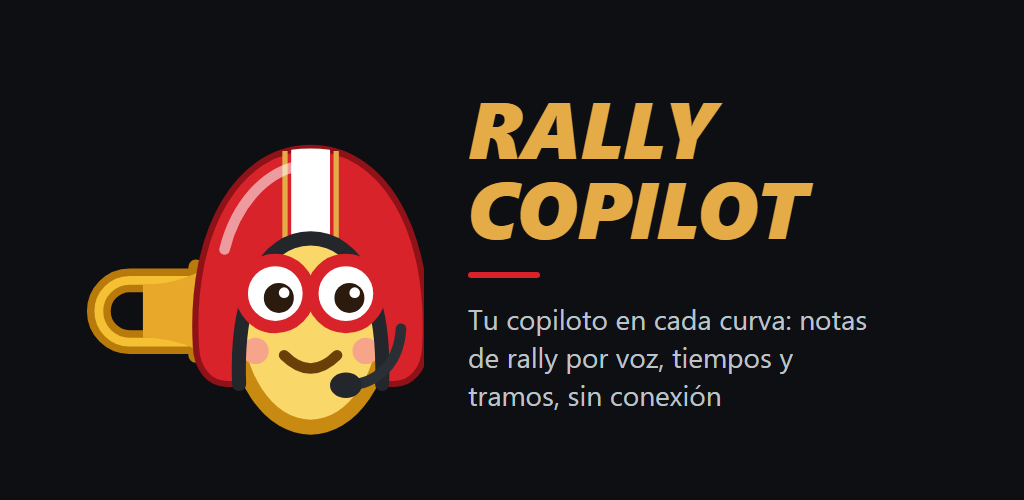
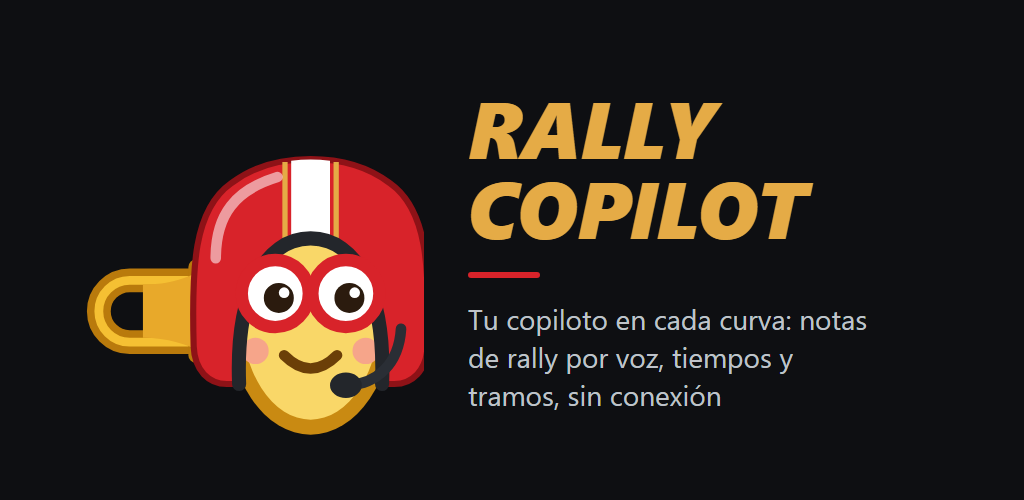
feat(marca): casco más cuadrado (cúpula más baja y ancha) y conversor SVG a VectorDrawable en scripts/svg-a-vector.py

Changed region(s): [[0.1875, 0.27, 0.375, 0.75], [0.375, 0.36, 0.4375, 0.57]]

diff --git a/scripts/svg-a-vector.py b/scripts/svg-a-vector.py
@@ -1,0 +1,83 @@
+"""Convierte la mascota SVG en los VectorDrawable de Android sin dependencias.
+
+Uso:
+  python -I scripts/svg-a-vector.py mascota   # docs/assets/mascota-rally.svg -> res/drawable/mascota_rally.xml
+  python -I scripts/svg-a-vector.py launcher  # misma fuente -> res/drawable/ic_launcher_foreground.xml (zona segura)
+
+Solo entiende lo que usa la mascota: <path> con d, fill, stroke, stroke-width, stroke-linecap/linejoin round y
+stroke-opacity. ic_launcher_monochrome.xml e ic_stat_rally.xml se mantienen a mano (siluetas simplificadas).
+"""
+
+import pathlib
+import re
+import sys
+
+RAIZ = pathlib.Path(__file__).resolve().parent.parent
+FUENTE = RAIZ / "docs" / "assets" / "mascota-rally.svg"
+DRAWABLE = RAIZ / "app" / "src" / "main" / "res" / "drawable"
+
+CABECERA_VECTOR = """<vector xmlns:android="http://schemas.android.com/apk/res/android"
+    android:width="108dp"
+    android:height="108dp"
+    android:viewportWidth="108"
+    android:viewportHeight="108">
+"""
+
+
+def paths_android(svg: str) -> list[str]:
+    salida = []
+    for crudo in re.findall(r"<path ([^>]*)/>", svg):
+        a = dict(re.findall(r'([\w-]+)="([^"]*)"', crudo))
+        attrs = [f'android:pathData="{a["d"]}"']
+        if a.get("fill", "") not in ("", "none"):
+            attrs.append(f'android:fillColor="{a["fill"]}"')
+        if "stroke" in a:
+            attrs.append(f'android:strokeColor="{a["stroke"]}"')
+            attrs.append(f'android:strokeWidth="{a["stroke-width"]}"')
+            if a.get("stroke-linecap") == "round":
+                attrs.append('android:strokeLineCap="round"')
+            if a.get("stroke-linejoin") == "round":
+                attrs.append('android:strokeLineJoin="round"')
+            if "stroke-opacity" in a:
+                attrs.append(f'android:strokeAlpha="{a["stroke-opacity"]}"')
+        salida.append("<path " + " ".join(attrs) + " />")
+    return salida
+
+
+def main() -> None:
+    modo = sys.argv[1] if len(sys.argv) > 1 else ""
+    paths = paths_android(FUENTE.read_text(encoding="utf-8"))
+    if modo == "mascota":
+        destino = DRAWABLE / "mascota_rally.xml"
+        texto = (
+            '<?xml version="1.0" encoding="utf-8"?>\n'
+            "<!-- Trombito con casco de rally, sin fondo, para la app. Generado por scripts/svg-a-vector.py desde\n"
+            "     docs/assets/mascota-rally.svg (viewBox 108). No editar a mano. -->\n"
+            + CABECERA_VECTOR
+            + "".join(f"    {p}\n" for p in paths)
+            + "</vector>\n"
+        )
+    elif modo == "launcher":
+        destino = DRAWABLE / "ic_launcher_foreground.xml"
+        texto = (
+            '<?xml version="1.0" encoding="utf-8"?>\n'
+            "<!-- Trombito con casco de rally. Generado por scripts/svg-a-vector.py desde docs/assets/mascota-rally.svg\n"
+            "     (viewBox 108). Escalada al 75 % y bajada 8,4 dp para caer en la zona segura de 66 dp. No editar a mano. -->\n"
+            + CABECERA_VECTOR
+            + '    <group android:translateY="8.4">\n'
+            + "        <group\n"
+            + '            android:pivotX="54"\n'
+            + '            android:pivotY="54"\n'
+            + '            android:scaleX="0.75"\n'
+            + '            android:scaleY="0.75">\n'
+            + "".join(f"            {p}\n" for p in paths)
+            + "        </group>\n    </group>\n</vector>\n"
+        )
+    else:
+        sys.exit("Uso: python -I scripts/svg-a-vector.py <mascota|launcher>")
+    destino.write_text(texto, encoding="utf-8", newline="\n")
+    print(f"svg-a-vector: {len(paths)} paths -> {destino.relative_to(RAIZ).as_posix()}")
+
+
+if __name__ == "__main__":
+    main()
